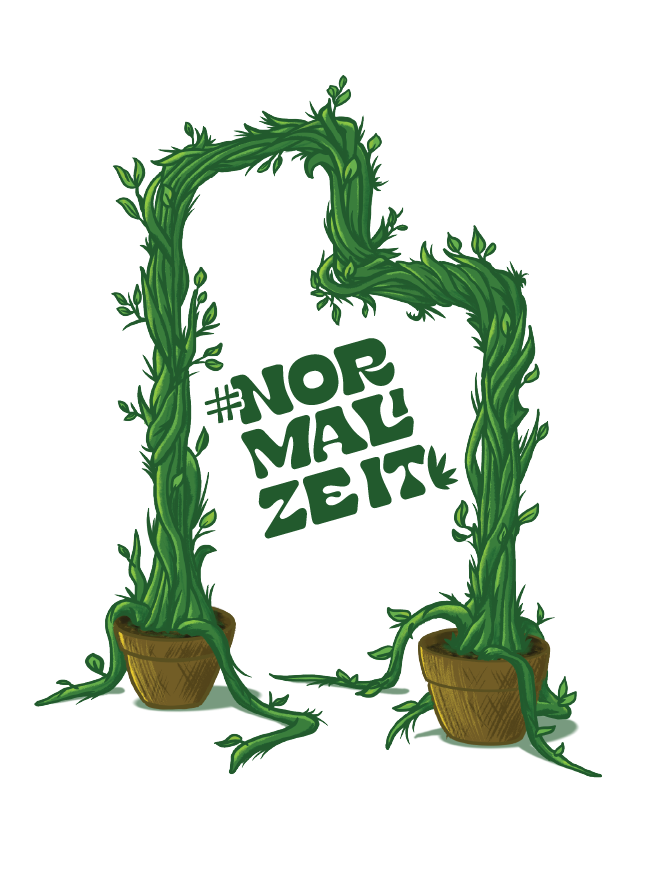
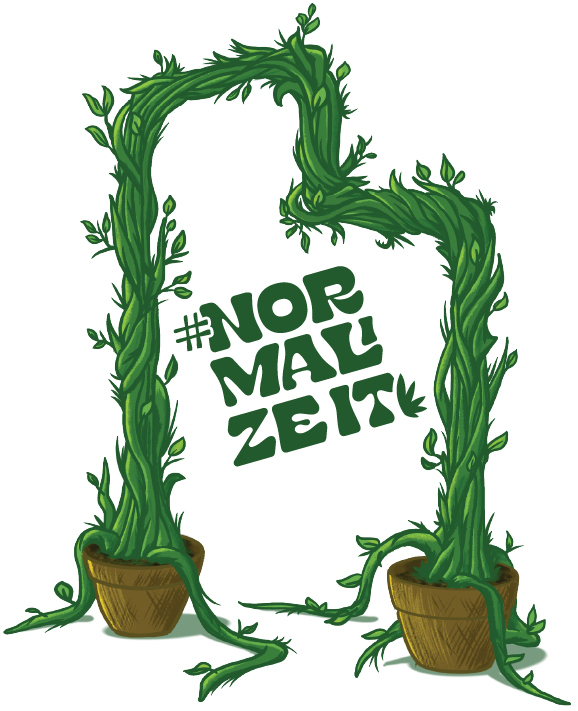
Full webpage is now responsive. Decided to give nav items a light background to help with contrast issues on mobile.

diff --git a/app/components/AboutUtahGrown.tsx b/app/components/AboutUtahGrown.tsx
@@ -1,13 +1,24 @@
 import Image from "next/image";
 import Typography from "./common/Typography";
+import UtahGrownAddress from "./UtahGrownAddress";
 
 export default function AboutUtahGrown() {
   return (
-    <section className="flex justify-between gap-12 mt-12">
-      <div className="flex flex-col gap-15">
+    <section className="flex justify-between gap-8 mt-12 lg:min-w-[1000px]">
+      <div className="flex flex-col gap-10">
         <article className="mt-4">
-          <Typography className="text-[3rem]">About Utah Grown</Typography>
-          <Typography className="text-grey2 leading-[2.25rem]">
+          <Typography className="text-[2rem] text-center lg:text-start lg:text-[3rem]">
+            About Utah Grown
+          </Typography>
+          {/* Mobile */}
+          <Image
+            src="/assets/NormalizeItUtah.png"
+            alt="green vines framing the hashtag 'Normalize It'"
+            className="object-cover lg:hidden w-auto h-[400px] mx-auto lg:mx-0"
+            width={550}
+            height={550}
+          />
+          <Typography className="text-grey2 leading-normal px-1 mt-2 lg:mt-0 lg:px-0 lg:leading-[2.25rem]">
             Lorem ipsum dolor sit amet consectetur adipisicing elit. Delectus,
             quasi placeat! Commodi eos aliquam doloribus pariatur ipsa, ducimus
             tenetur iste temporibus omnis fugiat nobis optio natus in reiciendis
@@ -16,23 +27,15 @@ export default function AboutUtahGrown() {
             accusamus ullam!
           </Typography>
         </article>
-
-        <div>
-          <Typography className="text-[3rem]">Utah Grown Office</Typography>
-          <Typography className="text-grey2 text-[2rem]">
-            730 State Street
-          </Typography>
-          <Typography className="text-grey2 text-[2rem]">
-            Salt Lake City, UT 84111
-          </Typography>
-        </div>
+        <UtahGrownAddress />
       </div>
+      {/* Desktop */}
       <Image
         src="/assets/NormalizeItUtah@2x.png"
         alt="green vines framing the hashtag 'Normalize It'"
+        className="object-cover hidden lg:block h-[550px]"
         width={550}
         height={550}
-        className="object-cover"
       />
     </section>
   );

diff --git a/app/components/Nav.tsx b/app/components/Nav.tsx
@@ -2,22 +2,24 @@ import Typography from "./common/Typography";
 import Link from "next/link";
 
 export default function Nav() {
+  const navItemStyling =
+    "font-normal md:p-0 md:bg-transparent rounded-full py-[2px] px-2 bg-green4";
   return (
     <nav className="flex flex-col items-center gap-2 justify-between w-[60%] text-green1 py-10 lg:!flex-row lg:gap-0">
       <Link href="/">
-        <Typography className="font-normal">APPOINTMENTS</Typography>
+        <Typography className={navItemStyling}>APPOINTMENTS</Typography>
       </Link>
       <Link href="/">
-        <Typography className="font-normal">MEDICAL CARD INFO</Typography>
+        <Typography className={navItemStyling}>MEDICAL CARD INFO</Typography>
       </Link>
       <Link href="/">
-        <Typography className="font-normal">FAQs</Typography>
+        <Typography className={navItemStyling}>FAQs</Typography>
       </Link>
       <Link href="/">
-        <Typography className="font-normal">PHARMACIES</Typography>
+        <Typography className={navItemStyling}>PHARMACIES</Typography>
       </Link>
       <Link href="/">
-        <Typography className="font-normal">ABOUT</Typography>
+        <Typography className={navItemStyling}>ABOUT</Typography>
       </Link>
     </nav>
   );

diff --git a/app/components/Footer.tsx b/app/components/Footer.tsx
@@ -5,15 +5,15 @@ import FooterBase from "./FooterBase";
 export default function Footer() {
   return (
     <footer className="border-t-3 border-green1">
-      <div className="flex px-[10rem]">
+      <div className="flex px-2 md:px-[6rem] lg:px-[10rem]">
         <Image
           src="/assets/updated-assets/UtahGrownLogoWhiteBorderCropped.png"
           alt="green and white Utah Grown Logo"
           width={325}
           height={325}
-          className="object-cover mt-2"
+          className="object-cover mt-2 w-[60%] md:w-auto"
         />
-        <Typography className="self-end font-normal py-5 text-[1.1rem]">
+        <Typography className="self-end font-normal py-2 md:py-5 text-[1.1rem]">
           UTAH&apos;S CANNABIS COMMUNITY
         </Typography>
       </div>

diff --git a/app/components/UtahGrownAddress.tsx b/app/components/UtahGrownAddress.tsx
@@ -1,0 +1,17 @@
+import Typography from "./common/Typography";
+
+export default function UtahGrownAddress() {
+  return (
+    <div>
+      <Typography className="text-[2rem] text-center lg:text-start lg:text-[3rem]">
+        Utah Grown Office
+      </Typography>
+      <Typography className="text-grey2 text-center lg:text-start text-[1.5rem] lg:text-[2rem]">
+        730 State Street
+      </Typography>
+      <Typography className="text-grey2 text-center lg:text-start text-[1.5rem] lg:text-[2rem]">
+        Salt Lake City, UT 84111
+      </Typography>
+    </div>
+  );
+}

diff --git a/app/components/FooterBase.tsx b/app/components/FooterBase.tsx
@@ -3,8 +3,8 @@ import Typography from "./common/Typography";
 export default function FooterBase() {
   return (
     <div className="h-[7.5rem] bg-green1 text-grey3">
-      <div className="mx-[15rem]">
-        <div className="flex gap-10 justify-end p-3">
+      <div className="mx-auto md:mx-[10rem] lg:mx-[15rem]">
+        <div className="flex flex-col md:flex-row gap-1 text-end md:text-start md:gap-10 justify-end p-3">
           <Typography className="text-grey3">
             Ⓒ2023 All Rights Reserved.
           </Typography>

diff --git a/app/page.tsx b/app/page.tsx
@@ -18,7 +18,7 @@ export default function Home() {
       <Typography className="text-center text-[1.25rem] lg:text-[1.8rem] text-green1 py-1 font-normal">
         Utah&apos;s Cannabis Community
       </Typography>
-      <main className="flex flex-col gap-6 px-[6px] -mb-5 lg:px-[10rem] md:px-[6rem]">
+      <main className="flex flex-col gap-6 px-[6px] mb-10 lg:-mb-5 lg:px-[10rem] md:px-[6rem]">
         <UpcomingEvents />
         <ThingsToKnow />
         <BannerAd />

diff --git a/app/components/FAQQuestion.tsx b/app/components/FAQQuestion.tsx
@@ -3,7 +3,7 @@ import Typography from "./common/Typography";
 export default function FAQQuestion({ question }: { question: string }) {
   return (
     <>
-      <Typography className="text-green2 leading-none py-3 text-[1rem] md:text-[1.25rem]">
+      <Typography className="text-green2 text-center md:text-start leading-none py-3 text-[1rem] md:text-[1.25rem]">
         {question}
       </Typography>
     </>
